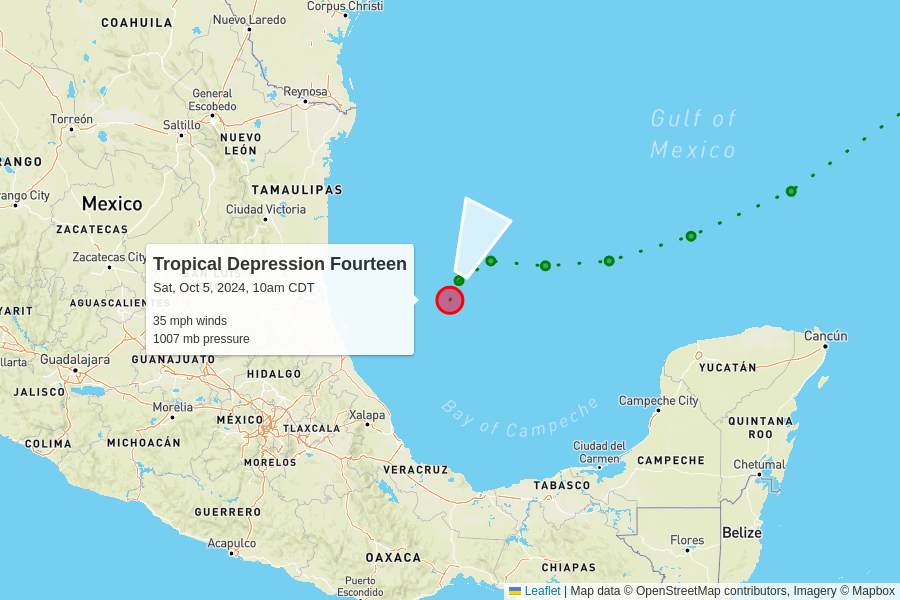
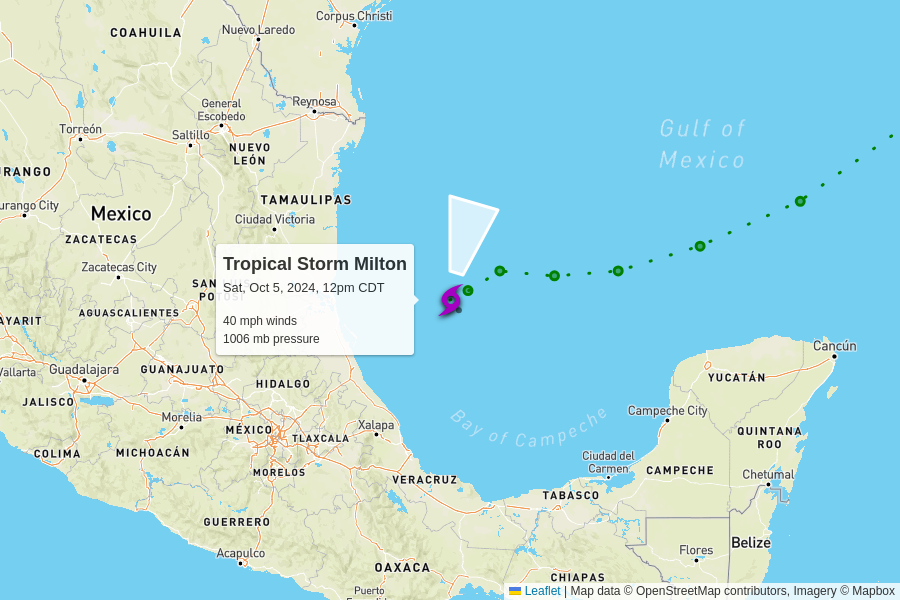
automatic update

diff --git a/docs/index.html b/docs/index.html
@@ -101,54 +101,10 @@
 
     <table>
       <tr>
-        <td colspan="6" class="storm category-1" >
-          <h2>
-            Hurricane Leslie - Category 1
-            <p class="updated">last updated <span data-time>2024-10-05T15:00:00.000Z</span></p>
-          </h2>
-        </td>
-      </tr>
-      
-      <tr>
-        <th class="spacer"></th>
-        <th>wind speed</th>
-        <th>central pressure</th>
-        <th>movement</th>
-        <th>data (CSV)</th>
-        <th>National Hurricane Center</th>
-      </tr>
-      <tr>
-        <td class="spacer"></td>
-        <td>80 mph<br>0 mph since last update</td>
-        <td>985 mb<br>0 mb since last update</td>
-        <td>
-          7 mph to the west-northwest
-          <br/>
-          <span style="display: inline-block; font-size: 1.5em; transform: rotate(295deg);">↑</span>
-        </td>
-        <td><a href="https://raw.githubusercontent.com/mgwalker/atlantic-hurricanes/main/data/csv/AL132024.csv">AL132024.csv</a></td>
-        <td><a href="https://www.nhc.noaa.gov/archive/2024/LESLIE.shtml?">NHC advisories</a></td>
-      </tr>
-      <tr id="storm_AL132024" >
-        <td class="spacer">
-        <td colspan="5">
-          <figure>
-            <img src="AL132024.png">
-            <figcaption>
-              Map data &copy; <a href="https://www.openstreetmap.org/copyright">OpenStreetMap</a> contributors,
-              Imagery &copy; <a href="https://www.mapbox.com/">Mapbox</a> |
-              <a href="https://www.mapbox.com/map-feedback/" target="_blank">Improve this map</a>
-            </figcaption>
-          </figure>
-        </td>
-      </tr>
-      
-
-      <tr>
         <td colspan="6" class="storm category-0" >
           <h2>
-            Tropical Depression Fourteen
-            <p class="updated">last updated <span data-time>2024-10-05T15:00:00.000Z</span></p>
+            Tropical Storm Milton
+            <p class="updated">last updated <span data-time>2024-10-05T17:25:00.000Z</span></p>
           </h2>
         </td>
       </tr>
@@ -163,15 +119,15 @@
       </tr>
       <tr>
         <td class="spacer"></td>
-        <td>35 mph</td>
-        <td>1007 mb</td>
+        <td>40 mph<br>+5 mph since last update</td>
+        <td>1006 mb<br>-1 mb since last update</td>
         <td>
           3 mph to the north-northeast
           <br/>
-          <span style="display: inline-block; font-size: 1.5em; transform: rotate(25deg);">↑</span>
+          <span style="display: inline-block; font-size: 1.5em; transform: rotate(15deg);">↑</span>
         </td>
         <td><a href="https://raw.githubusercontent.com/mgwalker/atlantic-hurricanes/main/data/csv/AL142024.csv">AL142024.csv</a></td>
-        <td><a href="https://www.nhc.noaa.gov/archive/2024/FOURTEEN.shtml?">NHC advisories</a></td>
+        <td><a href="https://www.nhc.noaa.gov/archive/2024/MILTON.shtml?">NHC advisories</a></td>
       </tr>
       <tr id="storm_AL142024" >
         <td class="spacer">
@@ -222,6 +178,50 @@
         <td colspan="5">
           <figure>
             <img src="AL122024.png">
+            <figcaption>
+              Map data &copy; <a href="https://www.openstreetmap.org/copyright">OpenStreetMap</a> contributors,
+              Imagery &copy; <a href="https://www.mapbox.com/">Mapbox</a> |
+              <a href="https://www.mapbox.com/map-feedback/" target="_blank">Improve this map</a>
+            </figcaption>
+          </figure>
+        </td>
+      </tr>
+      
+
+      <tr>
+        <td colspan="6" class="storm category-1" >
+          <h2>
+            Hurricane Leslie - Category 1
+            <p class="updated">last updated <span data-time>2024-10-05T15:00:00.000Z</span></p>
+          </h2>
+        </td>
+      </tr>
+      
+      <tr>
+        <th class="spacer"></th>
+        <th>wind speed</th>
+        <th>central pressure</th>
+        <th>movement</th>
+        <th>data (CSV)</th>
+        <th>National Hurricane Center</th>
+      </tr>
+      <tr>
+        <td class="spacer"></td>
+        <td>80 mph<br>0 mph since last update</td>
+        <td>985 mb<br>0 mb since last update</td>
+        <td>
+          7 mph to the west-northwest
+          <br/>
+          <span style="display: inline-block; font-size: 1.5em; transform: rotate(295deg);">↑</span>
+        </td>
+        <td><a href="https://raw.githubusercontent.com/mgwalker/atlantic-hurricanes/main/data/csv/AL132024.csv">AL132024.csv</a></td>
+        <td><a href="https://www.nhc.noaa.gov/archive/2024/LESLIE.shtml?">NHC advisories</a></td>
+      </tr>
+      <tr id="storm_AL132024" >
+        <td class="spacer">
+        <td colspan="5">
+          <figure>
+            <img src="AL132024.png">
             <figcaption>
               Map data &copy; <a href="https://www.openstreetmap.org/copyright">OpenStreetMap</a> contributors,
               Imagery &copy; <a href="https://www.mapbox.com/">Mapbox</a> |
